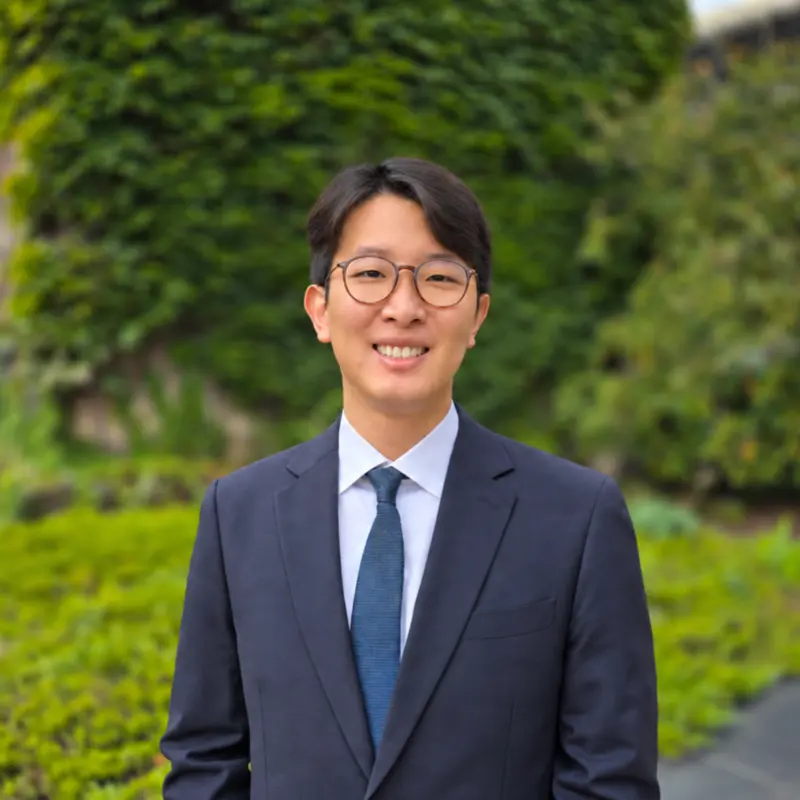
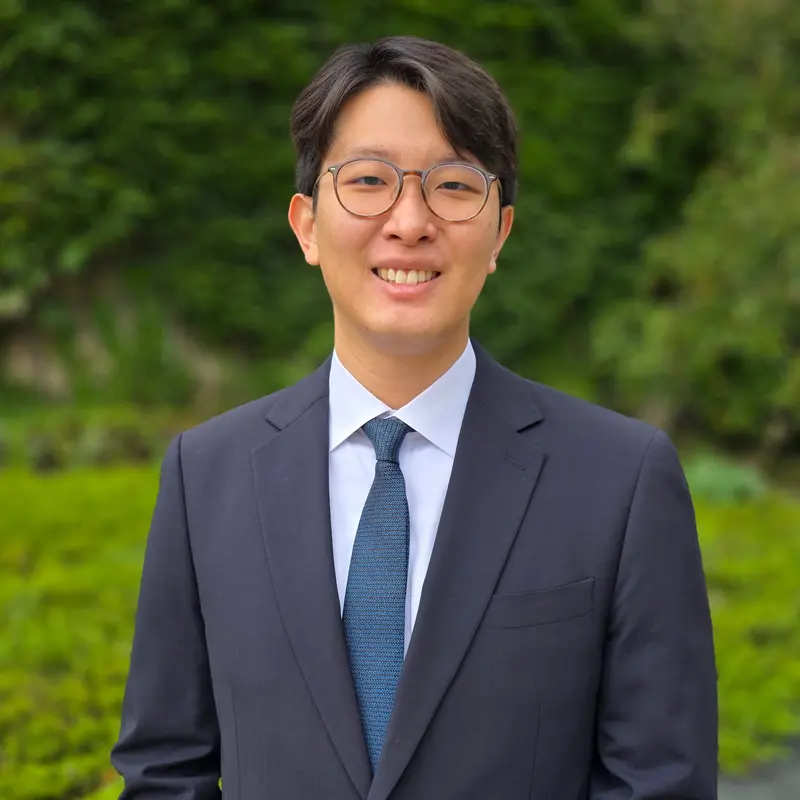
Deploying to gh-pages from @ yyun23/yyun23.github.io@d37459e4ba2849a882dbc3c711b76eb9183b5b4c 🚀

diff --git a/index.html b/index.html
@@ -4,7 +4,7 @@
   }
 </style> <link rel="stylesheet" href="/assets/css/tailwind.css?v=50c64c15cbb9fd1ce6056fdb8bcb4b62"> <link defer rel="stylesheet" href="https://cdn.jsdelivr.net/npm/@fortawesome/fontawesome-free@7.2.0/css/all.min.css" integrity="sha256-MVopmdyC2tYTiJ8wlktf0uh0v4NgT+vNdyVFepi7Q0c=" crossorigin="anonymous"> <link defer rel="stylesheet" href="https://cdn.jsdelivr.net/npm/academicons@1.9.5/css/academicons.min.css" integrity="sha256-SzrCOBJbGVFMahewkgjwnApaV2+av1DwMAA+/QGLyZw=" crossorigin="anonymous"> <link defer rel="stylesheet" href="https://cdn.jsdelivr.net/npm/scholar-icons@1.0.3/css/scholar-icons.css" integrity="sha256-VY3hHVj/hNX3fYG6wtbA6TcKJQl7+FthzGSyIB64klY=" crossorigin="anonymous"> <link defer rel="stylesheet" type="text/css" href="https://fonts.googleapis.com/css?family=Roboto:300,400,500,700|Roboto+Slab:100,300,400,500,700|Material+Icons&amp;display=swap"> <link defer rel="stylesheet" href="/assets/css/jekyll-pygments-themes-github.css?v=591dab5a4e56573bf4ef7fd332894c99" media="" id="highlight_theme_light"> <link rel="shortcut icon" href="/assets/img/favicon.ico?v=c739506005e770e62547a1e5b9028e4f"> <link rel="stylesheet" href="/assets/css/main.css?v=f0b101217084a90093badfe99ff9a7d1"> <link rel="canonical" href="https://yyun23.github.io/"> <script src="/assets/js/theme.js?v=7af685e2ba20b37fef545c97b8064050"></script> <link defer rel="stylesheet" href="/assets/css/jekyll-pygments-themes-native.css?v=5847e5ed4a4568527aa6cfab446049ca" media="none" id="highlight_theme_dark"> <script>
     initTheme();
-  </script> </head> <body class="fixed-top-nav "> <header> <nav id="navbar" class="navbar navbar-light navbar-expand-sm fixed-top" role="navigation"> <div class="container"> <button class="navbar-toggler collapsed navbar-toggler-main" type="button" data-nav-toggle="navbarNav" aria-controls="navbarNav" aria-expanded="false" aria-label="Toggle navigation"> <span class="sr-only">Toggle navigation</span> <span class="icon-bar top-bar"></span> <span class="icon-bar middle-bar"></span> <span class="icon-bar bottom-bar"></span> </button> <div class="collapse navbar-collapse navbar-collapse-main" id="navbarNav"> <ul class="navbar-nav navbar-menu-list flex-nowrap"> <li class="nav-item active"> <a class="nav-link" href="/">About <span class="sr-only">(current)</span> </a> </li> <li class="nav-item "> <a class="nav-link" href="/research/">Research </a> </li> <li class="nav-item "> <a class="nav-link" href="/teaching/">Teaching </a> </li> <li class="nav-item "> <a class="nav-link" href="/cv/">CV </a> </li> <li class="toggle-container"> <button id="light-toggle" type="button" title="Change theme" aria-label="Change color theme"> <i class="fa-half-sun-moon" id="light-toggle-system"></i> <i class="fa-solid fa-moon" id="light-toggle-dark"></i> <i class="fa-solid fa-sun" id="light-toggle-light"></i> </button> </li> </ul> </div> </div> </nav> <progress id="progress" value="0"> <div class="progress-container"> <span class="progress-bar"></span> </div> </progress> </header> <div class="container mt-5" role="main"> <div class="post"> <header class="post-header"> <h1 class="post-title"> <span class="font-weight-bold">Yeonggyu</span> Yun </h1> <p class="desc"></p> </header> <article> <div class="profile float-right"> <figure> <picture> <source class="responsive-img-srcset" srcset="/assets/img/Profile-480.webp 480w,/assets/img/Profile-800.webp 800w,/assets/img/Profile-1400.webp 1400w," type="image/webp" sizes="(min-width: 930px) 270.0px, (min-width: 576px) 30vw, 95vw"> <img src="/assets/img/Profile.png?v=d2549dba7175951aa6118de1f8d9d691" class="img-fluid z-depth-1 rounded" width="100%" height="auto" alt="Profile.png" loading="eager" onerror="this.onerror=null; document.querySelectorAll('.responsive-img-srcset').forEach(function (n) { n.remove(); });"> </source></picture> </figure> </div> <div class="clearfix"> <p>Hello! I am a Ph.D. student in Economics at the <a href="https://econ.wisc.edu/" rel="external nofollow noopener" target="_blank">University of Wisconsin-Madison</a>. My research interests are in international economics and macroeconomics. <strong>I will be on the job market for the 2026-2027 academic year.</strong></p> <p>In summer 2026, I visited the Federal Reserve Board as a dissertation fellow in the Division of International Finance. I worked at the International Monetary Fund as an intern in summer 2025.</p> <p><strong>Contact Information:</strong></p> <ul> <li> <p>E-mail: <a href="mailto:yyun23@wisc.edu">yyun23@wisc.edu</a></p> </li> <li> <p>Address: Social Sciences 6408, 1180 Observatory Drive, Madison, WI 53706</p> </li> </ul> </div> <div class="social"> <div class="contact-icons"> <a href="/assets/pdf/CV.pdf" title="Cv pdf"><i class="ai ai-cv"></i></a> <a href="mailto:yyun23@wisc.edu" title="Email"><i class="fa-solid fa-envelope"></i></a> <a href="https://scholar.google.com/citations?user=GPOeunsAAAAJ" title="Scholar userid" rel="external nofollow noopener" target="_blank"><i class="ai ai-google-scholar"></i></a> <a href="https://www.linkedin.com/in/yeonggyu-yun" title="Linkedin username" rel="external nofollow noopener" target="_blank"><i class="fa-brands fa-linkedin"></i></a> </div> <div class="contact-note"></div> </div> </article> </div> </div> <footer class="fixed-bottom" role="contentinfo"> <div class="container mt-0"> © Copyright 2026 Yeonggyu Yun. Powered by <a href="https://jekyllrb.com/" target="_blank" rel="external nofollow noopener">Jekyll</a> with <a href="https://github.com/alshedivat/al-folio" rel="external nofollow noopener" target="_blank">al-folio</a> theme. Hosted by <a href="https://pages.github.com/" target="_blank" rel="external nofollow noopener">GitHub Pages</a>. Photos from <a href="https://unsplash.com" target="_blank" rel="external nofollow noopener">Unsplash</a>. </div> </footer> <script>
+  </script> </head> <body class="fixed-top-nav "> <header> <nav id="navbar" class="navbar navbar-light navbar-expand-sm fixed-top" role="navigation"> <div class="container"> <button class="navbar-toggler collapsed navbar-toggler-main" type="button" data-nav-toggle="navbarNav" aria-controls="navbarNav" aria-expanded="false" aria-label="Toggle navigation"> <span class="sr-only">Toggle navigation</span> <span class="icon-bar top-bar"></span> <span class="icon-bar middle-bar"></span> <span class="icon-bar bottom-bar"></span> </button> <div class="collapse navbar-collapse navbar-collapse-main" id="navbarNav"> <ul class="navbar-nav navbar-menu-list flex-nowrap"> <li class="nav-item active"> <a class="nav-link" href="/">About <span class="sr-only">(current)</span> </a> </li> <li class="nav-item "> <a class="nav-link" href="/research/">Research </a> </li> <li class="nav-item "> <a class="nav-link" href="/teaching/">Teaching </a> </li> <li class="nav-item "> <a class="nav-link" href="/cv/">CV </a> </li> <li class="toggle-container"> <button id="light-toggle" type="button" title="Change theme" aria-label="Change color theme"> <i class="fa-half-sun-moon" id="light-toggle-system"></i> <i class="fa-solid fa-moon" id="light-toggle-dark"></i> <i class="fa-solid fa-sun" id="light-toggle-light"></i> </button> </li> </ul> </div> </div> </nav> <progress id="progress" value="0"> <div class="progress-container"> <span class="progress-bar"></span> </div> </progress> </header> <div class="container mt-5" role="main"> <div class="post"> <header class="post-header"> <h1 class="post-title"> <span class="font-weight-bold">Yeonggyu</span> Yun </h1> <p class="desc"></p> </header> <article> <div class="profile float-right"> <figure> <picture> <source class="responsive-img-srcset" srcset="/assets/img/Profile-480.webp 480w,/assets/img/Profile-800.webp 800w,/assets/img/Profile-1400.webp 1400w," type="image/webp" sizes="(min-width: 930px) 270.0px, (min-width: 576px) 30vw, 95vw"> <img src="/assets/img/Profile.png?v=b806f9de23d07db55354d2e0c2fc20cc" class="img-fluid z-depth-1 rounded" width="100%" height="auto" alt="Profile.png" loading="eager" onerror="this.onerror=null; document.querySelectorAll('.responsive-img-srcset').forEach(function (n) { n.remove(); });"> </source></picture> </figure> </div> <div class="clearfix"> <p>Hello! I am a Ph.D. student in Economics at the <a href="https://econ.wisc.edu/" rel="external nofollow noopener" target="_blank">University of Wisconsin-Madison</a>. My research interests are in international economics and macroeconomics. <strong>I will be on the job market for the 2026-2027 academic year.</strong></p> <p>In summer 2026, I visited the Federal Reserve Board as a dissertation fellow in the Division of International Finance. I worked at the International Monetary Fund as an intern in summer 2025.</p> <p><strong>Contact Information:</strong></p> <ul> <li> <p>E-mail: <a href="mailto:yyun23@wisc.edu">yyun23@wisc.edu</a></p> </li> <li> <p>Address: Social Sciences 6408, 1180 Observatory Drive, Madison, WI 53706</p> </li> </ul> </div> <div class="social"> <div class="contact-icons"> <a href="/assets/pdf/CV.pdf" title="Cv pdf"><i class="ai ai-cv"></i></a> <a href="mailto:yyun23@wisc.edu" title="Email"><i class="fa-solid fa-envelope"></i></a> <a href="https://scholar.google.com/citations?user=GPOeunsAAAAJ" title="Scholar userid" rel="external nofollow noopener" target="_blank"><i class="ai ai-google-scholar"></i></a> <a href="https://www.linkedin.com/in/yeonggyu-yun" title="Linkedin username" rel="external nofollow noopener" target="_blank"><i class="fa-brands fa-linkedin"></i></a> </div> <div class="contact-note"></div> </div> </article> </div> </div> <footer class="fixed-bottom" role="contentinfo"> <div class="container mt-0"> © Copyright 2026 Yeonggyu Yun. Powered by <a href="https://jekyllrb.com/" target="_blank" rel="external nofollow noopener">Jekyll</a> with <a href="https://github.com/alshedivat/al-folio" rel="external nofollow noopener" target="_blank">al-folio</a> theme. Hosted by <a href="https://pages.github.com/" target="_blank" rel="external nofollow noopener">GitHub Pages</a>. Photos from <a href="https://unsplash.com" target="_blank" rel="external nofollow noopener">Unsplash</a>. </div> </footer> <script>
   window.alFolio = {
     compatBootstrap: false
   };

diff --git a/assets/jupyter/blog.ipynb.html b/assets/jupyter/blog.ipynb.html
@@ -1,4 +1,4 @@
-<!DOCTYPE html> <html lang="en"> <head><meta charset="utf-8"/> <meta content="width=device-width, initial-scale=1.0" name="viewport"/> <title>jekyll-jupyter-notebook20260925-3414-mkmjmh</title><script src="https://cdnjs.cloudflare.com/ajax/libs/require.js/2.1.10/require.min.js"></script> <style type="text/css">
+<!DOCTYPE html> <html lang="en"> <head><meta charset="utf-8"/> <meta content="width=device-width, initial-scale=1.0" name="viewport"/> <title>jekyll-jupyter-notebook20260925-3353-rovls3</title><script src="https://cdnjs.cloudflare.com/ajax/libs/require.js/2.1.10/require.min.js"></script> <style type="text/css">
     pre { line-height: 125%; }
 td.linenos .normal { color: inherit; background-color: transparent; padding-left: 5px; padding-right: 5px; }
 span.linenos { color: inherit; background-color: transparent; padding-left: 5px; padding-right: 5px; }
